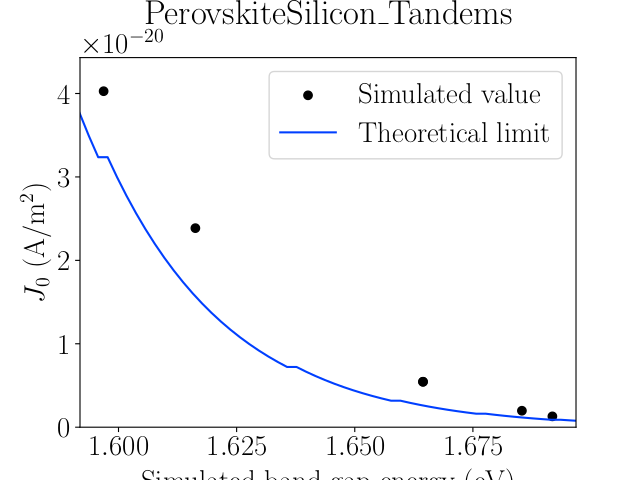
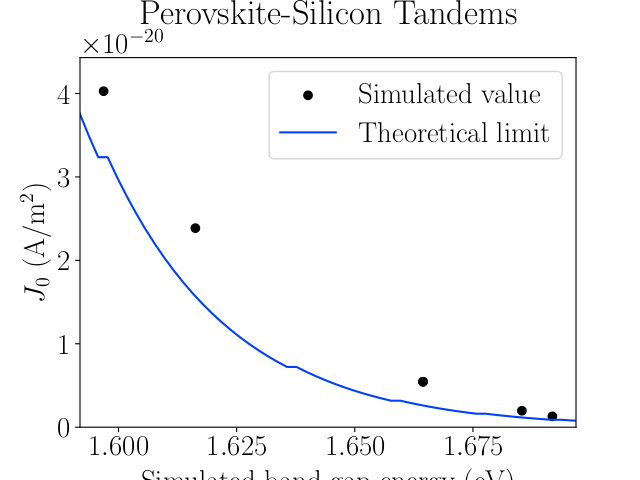
corrected plot title

Changed region(s): [[0.2188, 0.0, 0.8125, 0.0625]]

diff --git a/Technology 4 - PerovskiteSilicon_Tandems/functions.py b/Technology 4 - PerovskiteSilicon_Tandems/functions.py
@@ -639,7 +639,7 @@ def make_J_o_plot(J_o: np.ndarray, E_G: np.ndarray) -> None:
     plt.xlim(min(E_G) - 0.005, max(E_G) + 0.005)
     plt.xlabel("Simulated band gap energy (eV)")
     plt.ylabel("$J_{0}$ (A/m$^2$)")
-    plt.title(f"{technology_name}")
+    plt.title(f"Perovskite-Silicon Tandems")
     plt.legend()
     directory_outputs = f"{os.path.dirname(__file__)}/Output"
     os.makedirs(directory_outputs, exist_ok=True)
